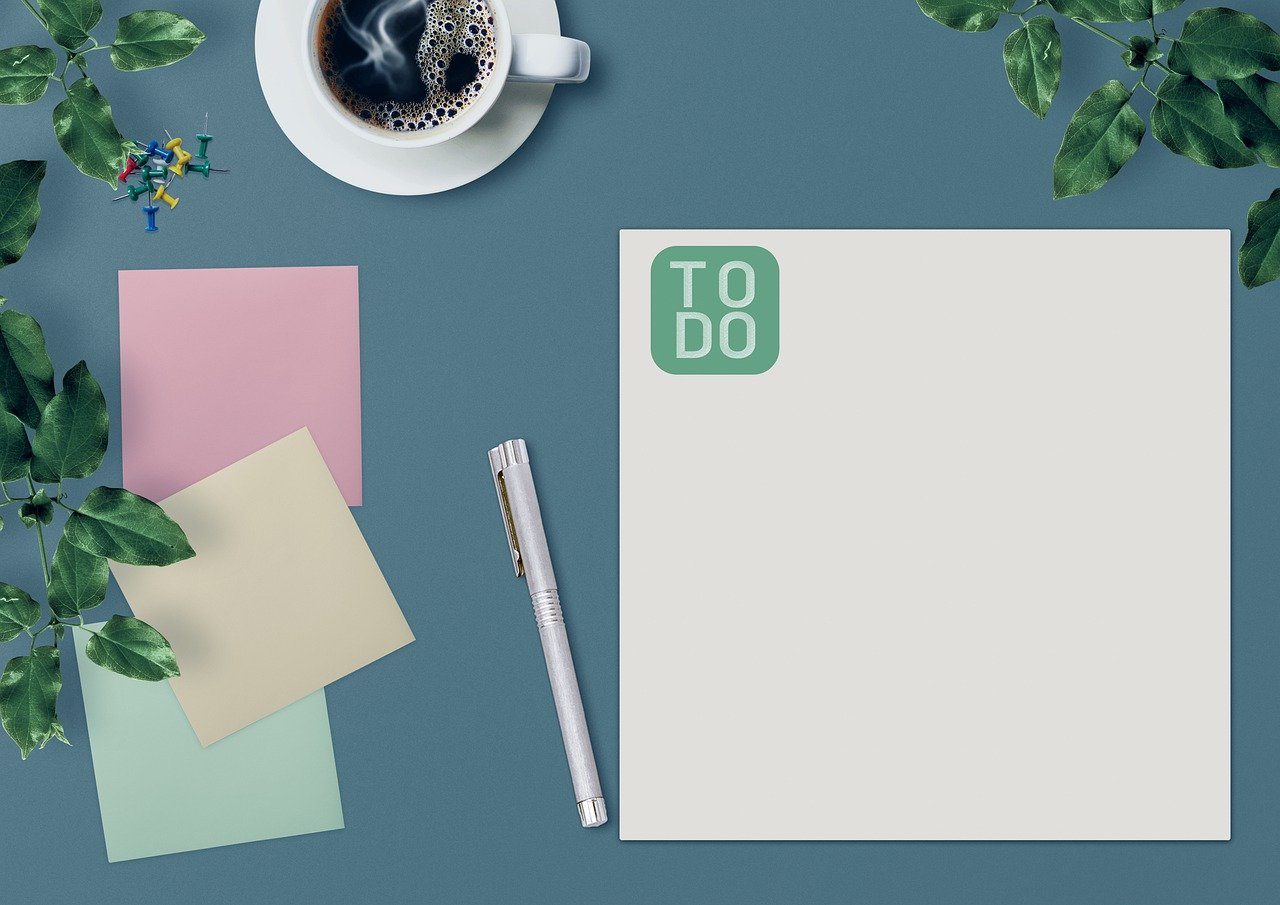
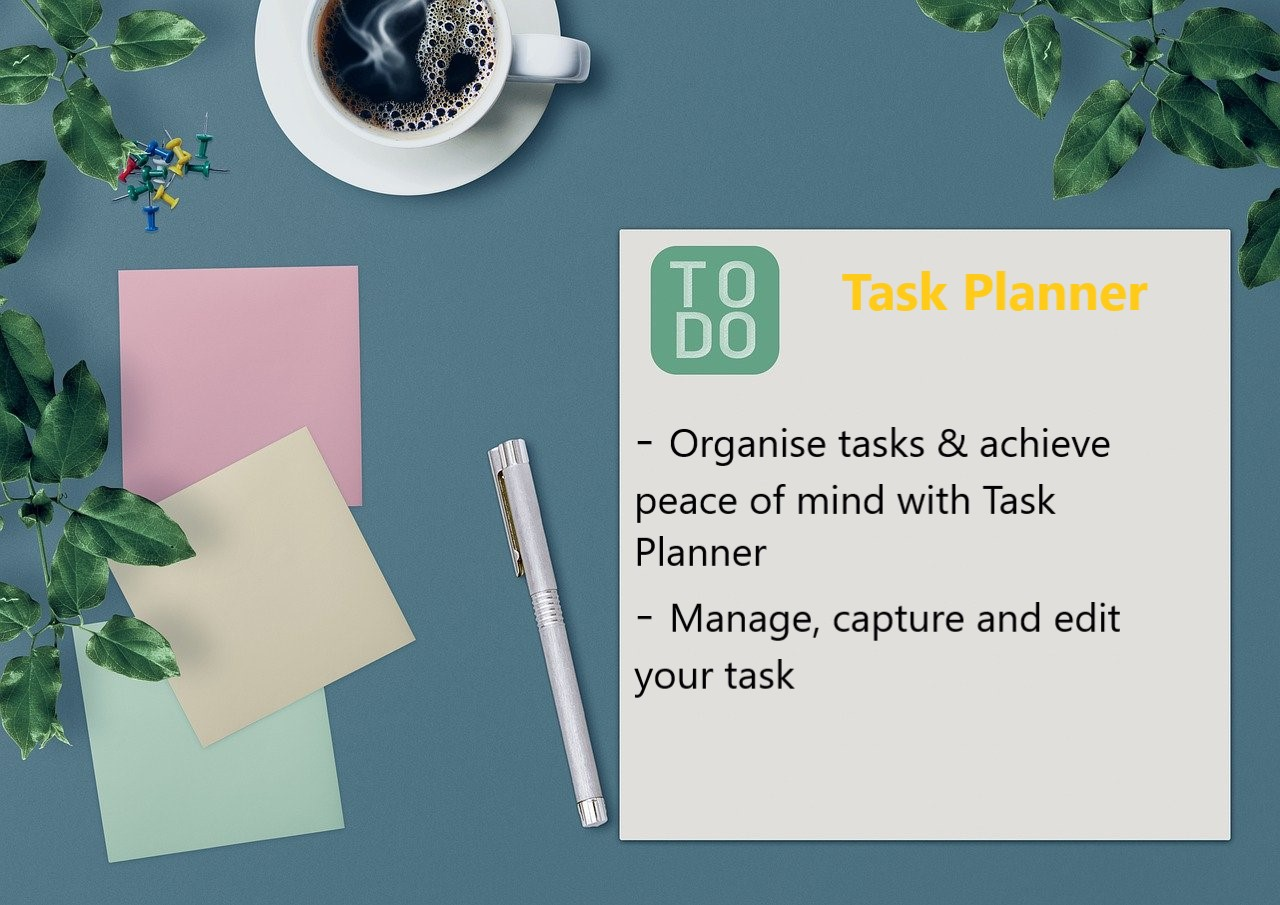
created structure in readme

Changed region(s): [[0.5, 0.4641, 0.875, 0.6497], [0.5, 0.6497, 0.875, 0.7735], [0.6562, 0.2785, 0.9062, 0.3403]]

diff --git a/README.md b/README.md
@@ -1,2 +1,21 @@
-# Group4JWDProject
-JWD Final Project by Group-4
+<!-- Title -->
+# Task Planner 
+![TaskPlanner Logo](./images/todolist.jpg)
+
+###### _JWD Final Project by Group 4_
+
+>HTML5 CSS & Bootstrap 5.1 Javascript ES6
+
+
+```bash
+git clone https://github.com/kumu98/Group4JWDProject.git
+```
+|   Contributors    |   
+|   ----    |    
+|   Denise  |    
+|   Kumu    |    
+|   Yuliia  |     
+
+
+
+
